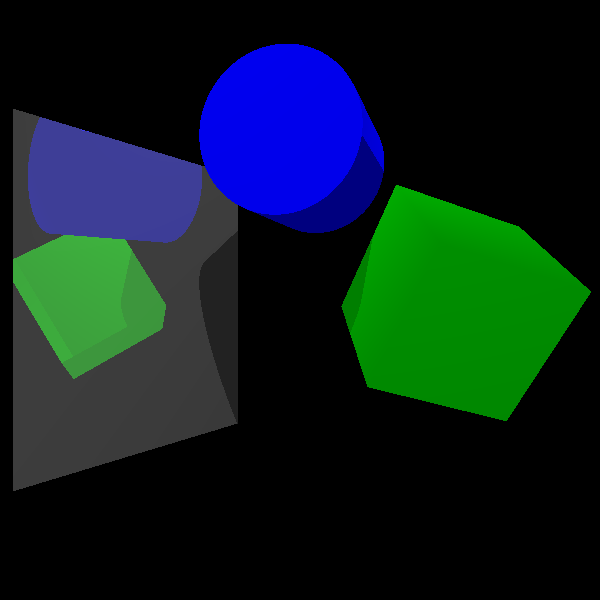
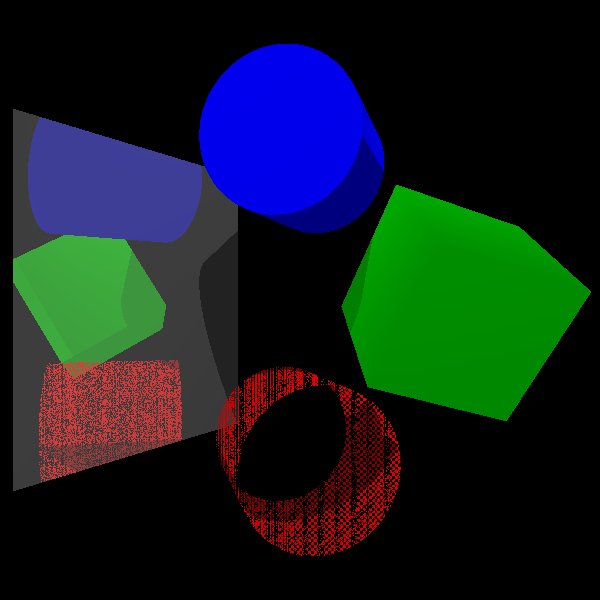
Tube WIP

Changed region(s): [[0.36, 0.6, 0.69, 0.93], [0.06, 0.6, 0.3, 0.81]]

diff --git a/assignment2/Tube.cpp b/assignment2/Tube.cpp
@@ -25,9 +25,96 @@ Tube& Tube::operator=(const Tube& tube) {
 std::vector<RayIntersection> Tube::intersect(const Ray& ray) const {
 	std::vector<RayIntersection> result;
 
-	/*****************************************************
-	* Code to implement Ray-Tube interesection goes here *
-	*****************************************************/
+	Ray inverseRay = transform.applyInverse(ray);
+
+	// Intersection is of the form ad^2 + bd + c, where d = distance along the ray
+
+	const Point &p = inverseRay.point;
+	const Direction &d = inverseRay.direction;
+	double a = (d(0) * d(0)) + (d(1) * d(1));
+	double b = 2 * ((p(0) * d(0)) + (p(1) * d(1)));
+	double c = (p(0) * p(0)) + (p(1) * p(1) - 1);
+
+	RayIntersection hit;
+	hit.material = material;
+	double x0 = inverseRay.point(0);
+	double y0 = inverseRay.point(1);
+	double dx = inverseRay.direction(0);
+	double dy = inverseRay.direction(1);
+
+	double b2_4ac = b * b - 4 * a * c;
+	double t;
+
+	double x2_y2 = ((x0 + t * dx) * (x0 + t * dx)) + ((y0 + t * dy) * (y0 + t * dy));
+	switch (sign(b2_4ac))
+	{
+	case -1:
+		// No intersections
+		break;
+	case 0:
+		// One intersection
+		t = -b / (2 * a);
+		if (t > 0)
+		{
+			hit.point = p + t * d;
+			if ((hit.point(2) <= 1 && hit.point(2) >= -1) && x2_y2 <= 1 && x2_y2 > (ratio_ * ratio_))
+			{
+				// Intersection is in front of the ray's start point
+				hit.point = transform.apply(hit.point);
+				hit.normal = transform.apply(Normal(1, 1, 0));
+				if (hit.normal.dot(ray.direction) > 0)
+				{
+					hit.normal = -hit.normal;
+				}
+				hit.distance = (hit.point - ray.point).norm();
+				result.push_back(hit);
+			}
+		}
+		break;
+	case 1:
+		// Two intersections
+		t = (-b + sqrt(b * b - 4 * a * c)) / (2 * a);
+		if (t > 0)
+		{
+			hit.point = p + t * d;
+			if ((hit.point(2) <= 1 && hit.point(2) >= -1) && x2_y2 <= 1 && x2_y2 > (ratio_ * ratio_))
+			{
+				// Intersection is in front of the ray's start point
+				hit.point = transform.apply(hit.point);
+				hit.normal = transform.apply(Normal(1, 1, 0));
+				if (hit.normal.dot(ray.direction) > 0)
+				{
+					hit.normal = -hit.normal;
+				}
+				hit.distance = (hit.point - ray.point).norm();
+				result.push_back(hit);
+			}
+		}
+
+		t = (-b - sqrt(b * b - 4 * a * c)) / (2 * a);
+		if (t > 0)
+		{
+			hit.point = p + t * d;
+			if ((hit.point(2) <= 1 && hit.point(2) >= -1) && x2_y2 <= 1 && x2_y2 > (ratio_ * ratio_))
+			{
+				// Intersection is in front of the ray's start point
+				hit.point = transform.apply(hit.point);
+				hit.normal = transform.apply(Normal(1, 1, 0));
+				if (hit.normal.dot(ray.direction) > 0)
+				{
+					hit.normal = -hit.normal;
+				}
+				hit.distance = (hit.point - ray.point).norm();
+				result.push_back(hit);
+			}
+		}
+		break;
+	default:
+		// Shouldn't be possible, but just in case
+		std::cerr << "Something's wrong - sign(x) should be -1, +1 or 0" << std::endl;
+		exit(-1);
+		break;
+	}
 
 	return result;
 }
